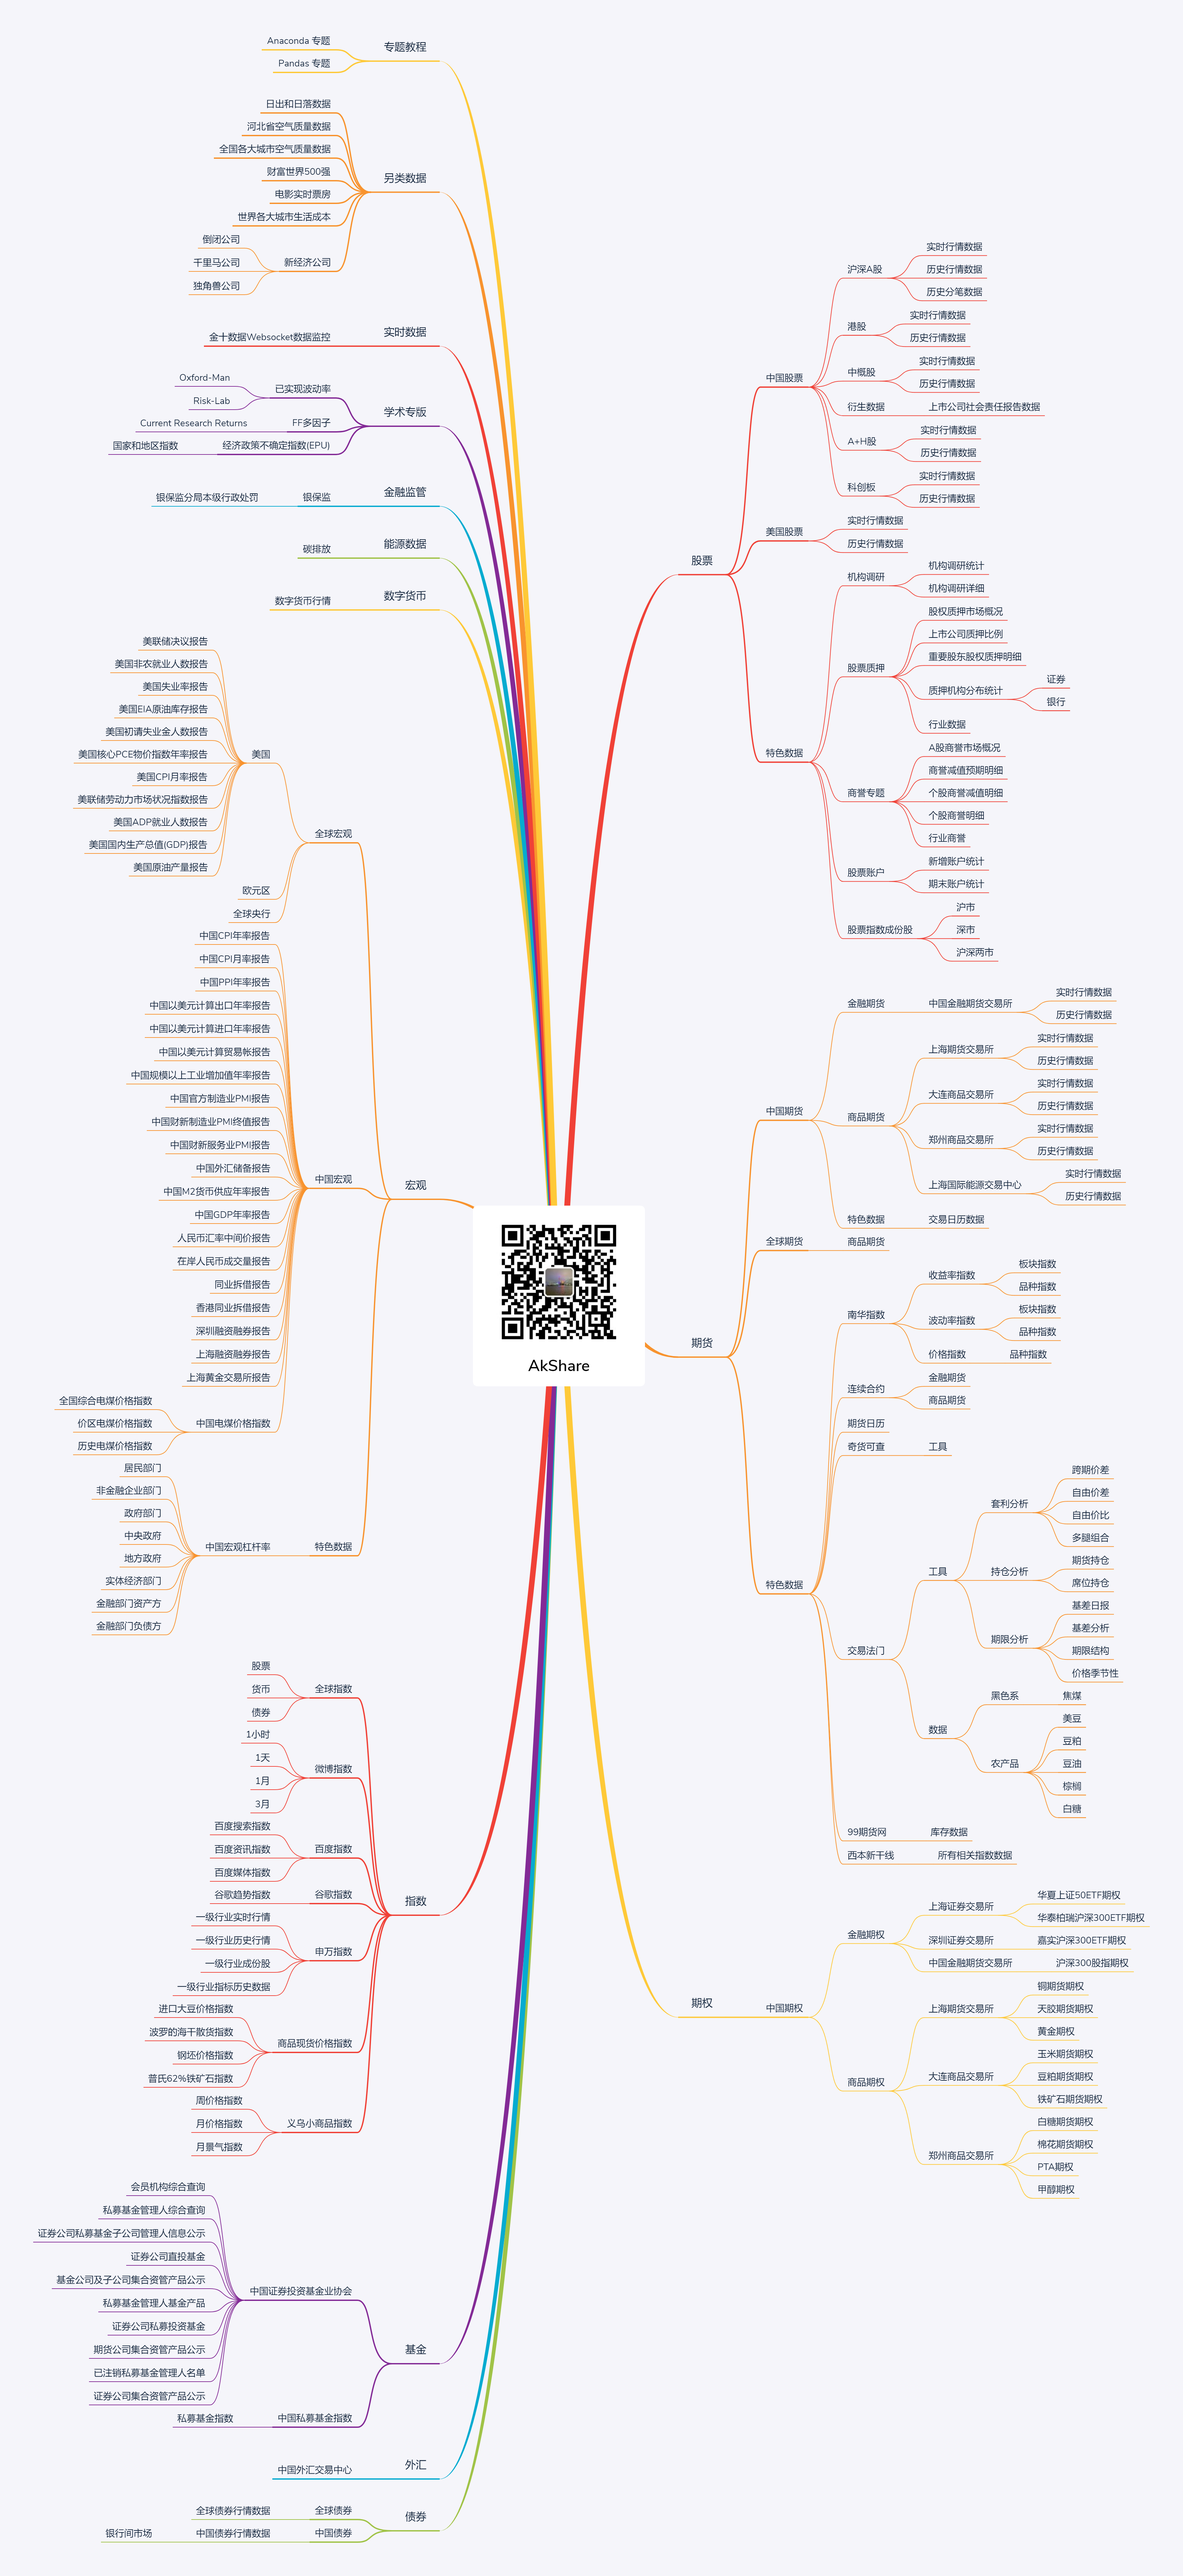
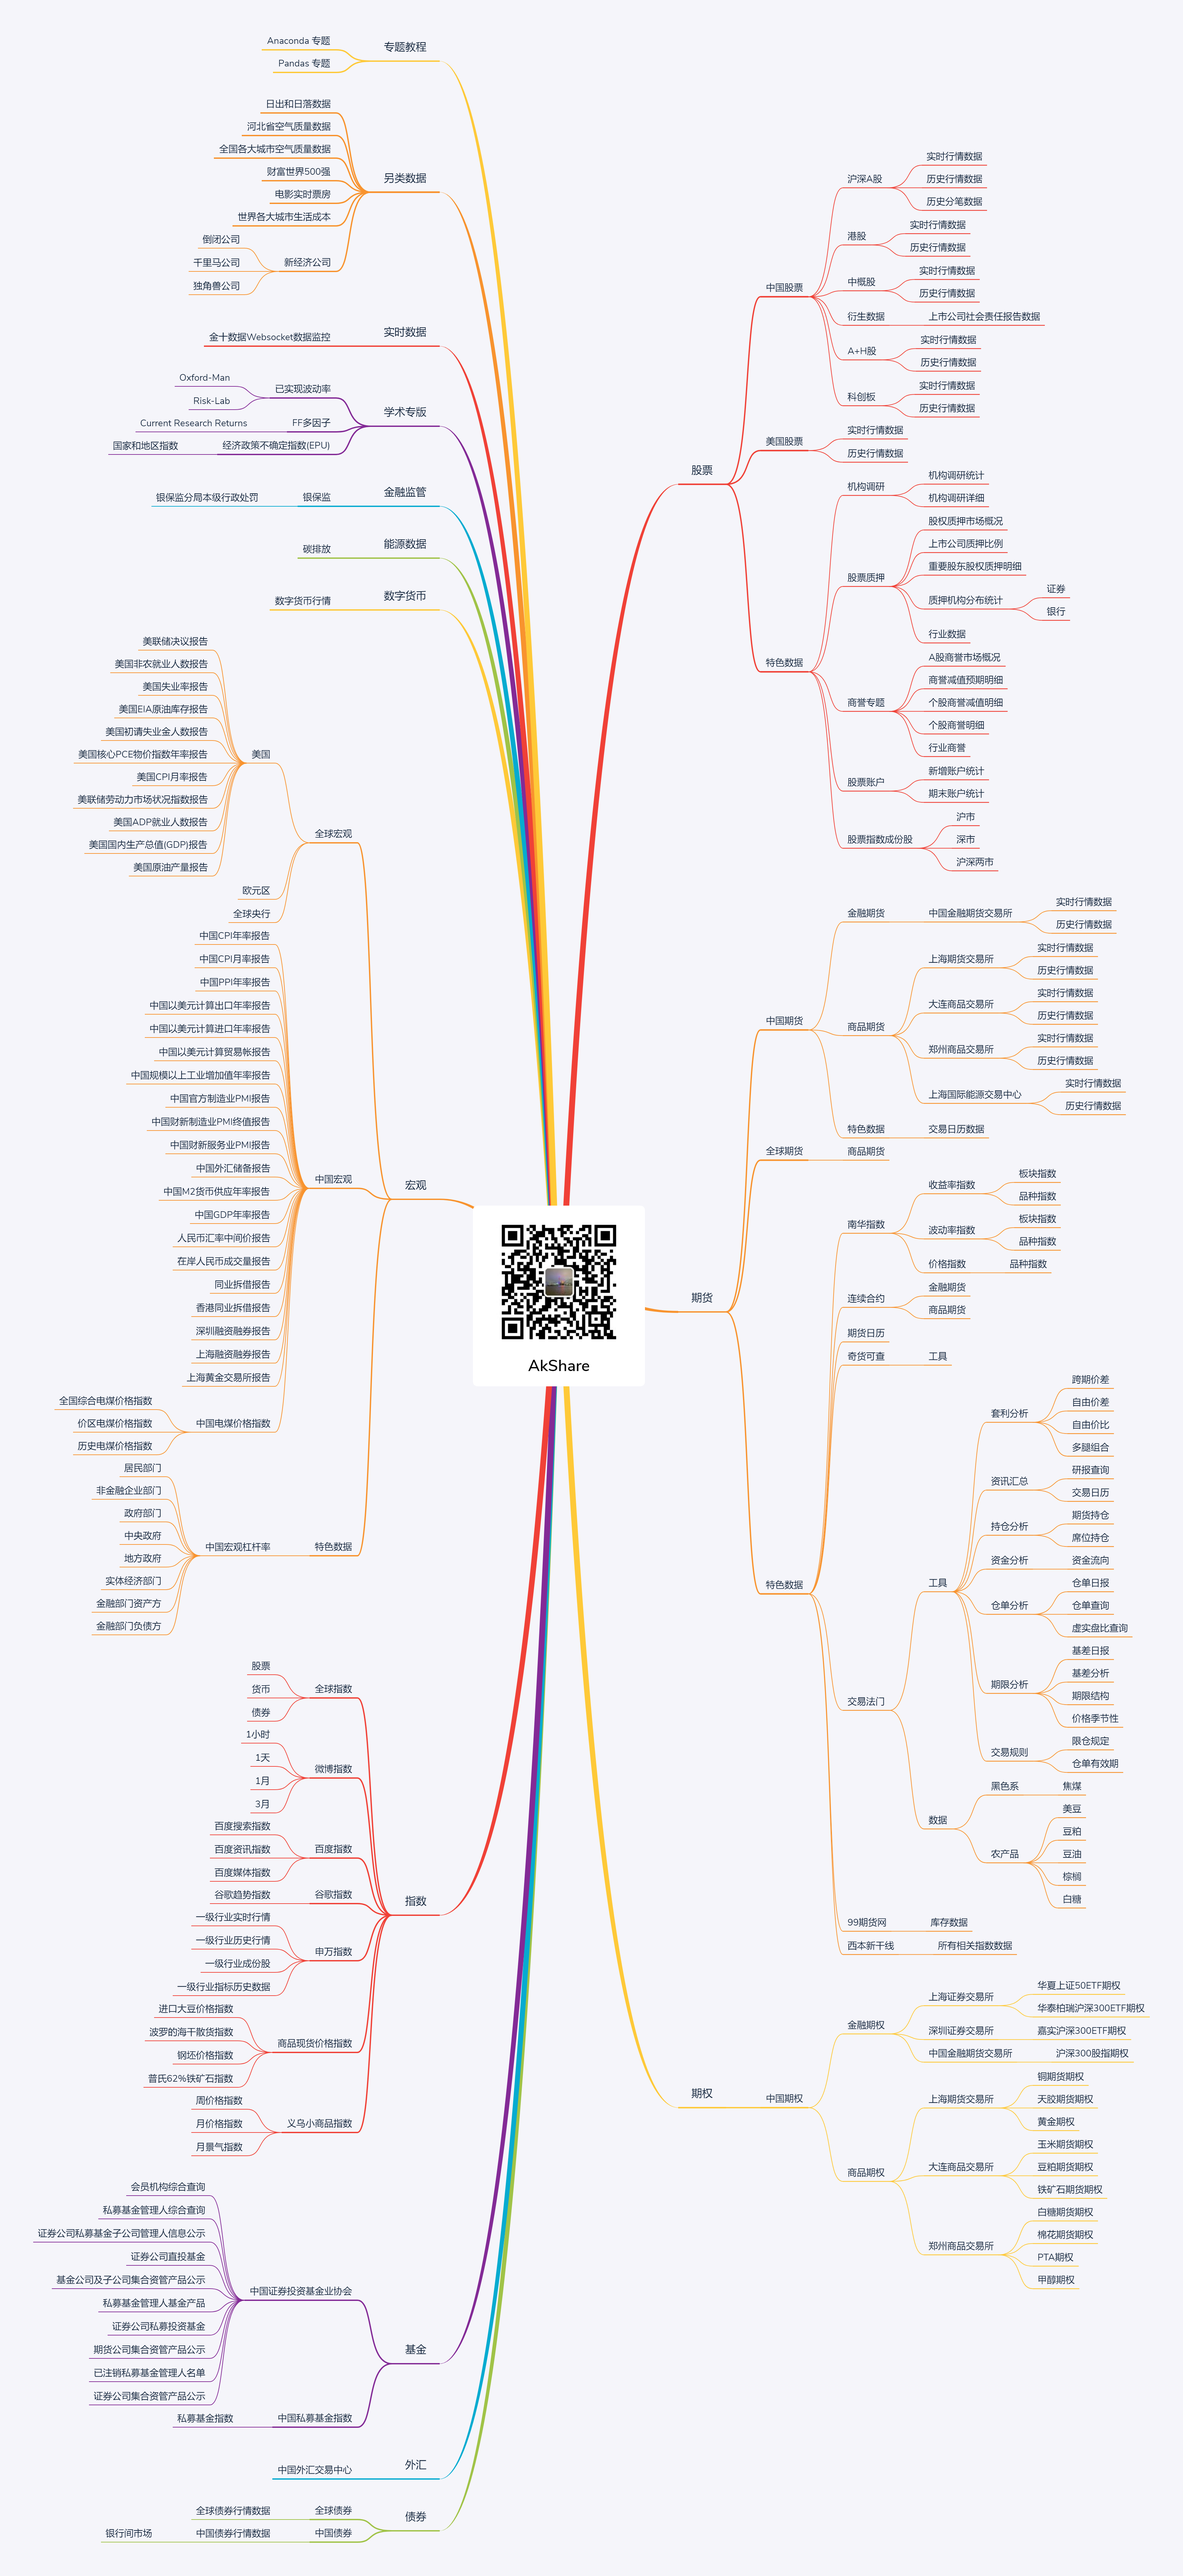
0.3.36 # 交易法门-工具-仓单分析 增加-交易法门-工具-仓单分析-仓单日报 增加-交易法门-工具-仓单分析-仓单查询 增加-交易法门-工具-仓单分析-虚实盘比查询 # 交易法门-工具-资讯汇总 增加-交易法门-工具-资讯汇总-研报查询 增加-交易法门-工具-资讯汇总-交易日历 # 交易法门-工具-资金分析 增加-交易法门-工具-资金分析-资金流向

diff --git a/docs/source/akshare/ak-introduction.md b/docs/source/akshare/ak-introduction.md
@@ -1,6 +1,6 @@
 # [AkShare](https://github.com/jindaxiang/akshare) 概览
 
-(本文档更新于 **2020-01-08**; 如发现库和文档相关问题, 请联系 [AkShare](https://github.com/jindaxiang/akshare) 的作者 **Albert King**: jindaxiang@163.com)
+(本文档更新于 **2020-01-09**; 如发现库和文档相关问题, 请联系 [AkShare](https://github.com/jindaxiang/akshare) 的作者 **Albert King**: jindaxiang@163.com)
 
 您也可以加入QQ群答疑解难: 326900231
 
